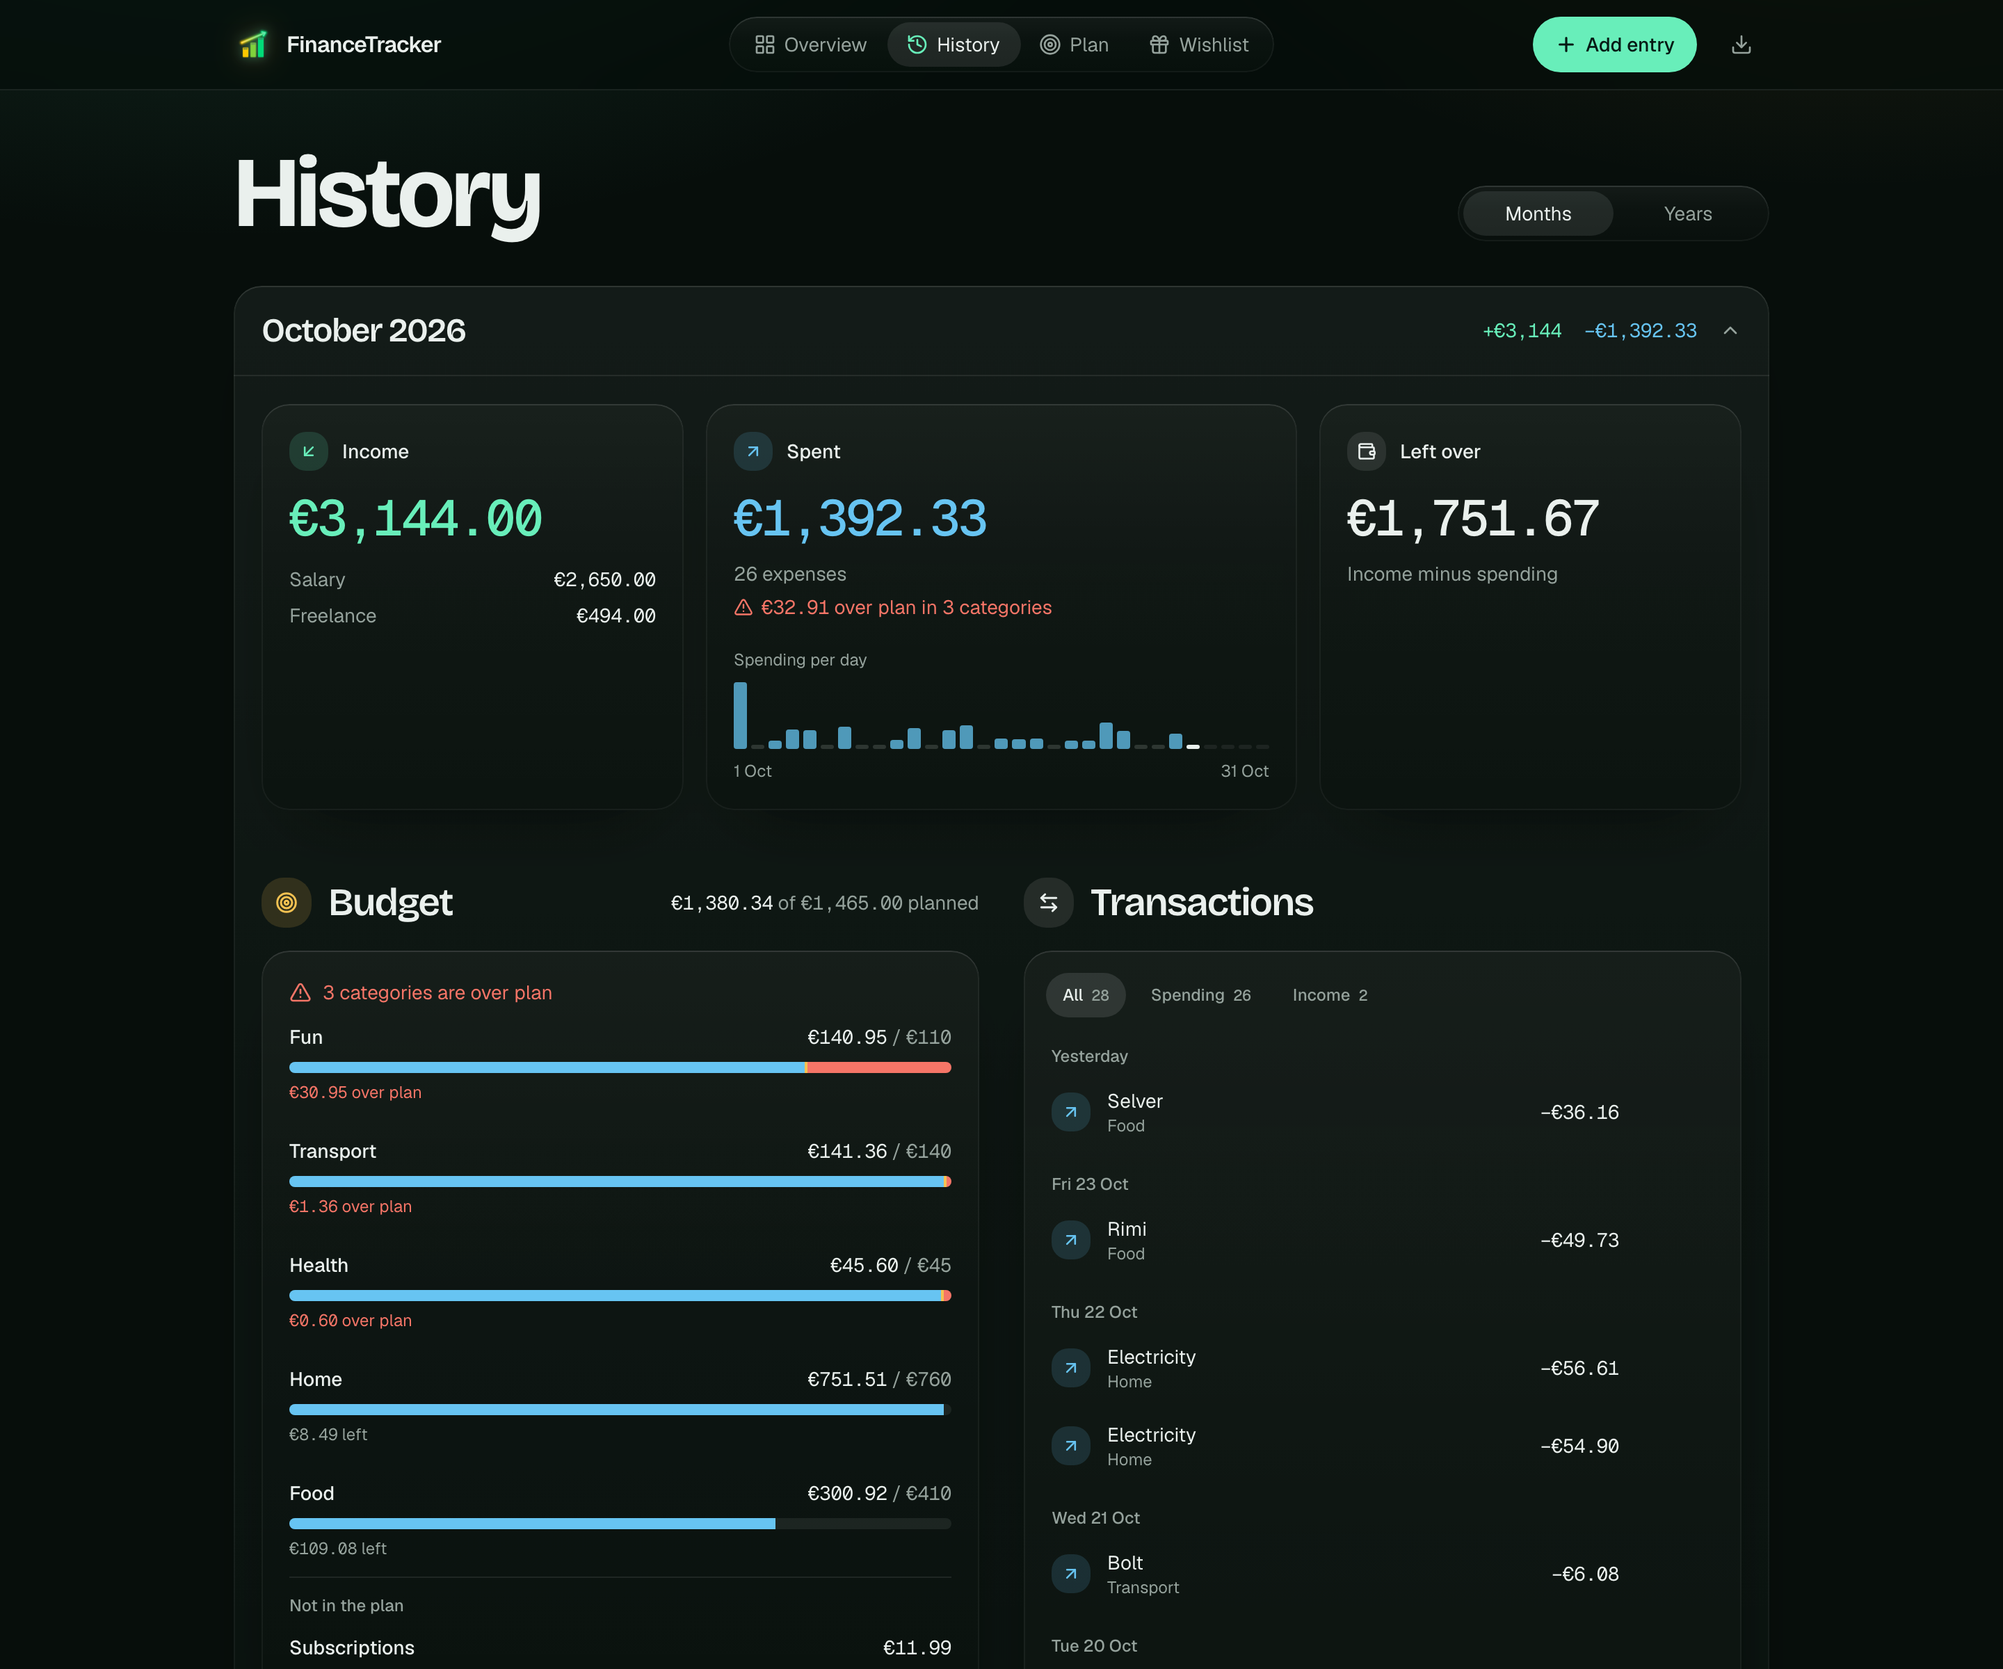
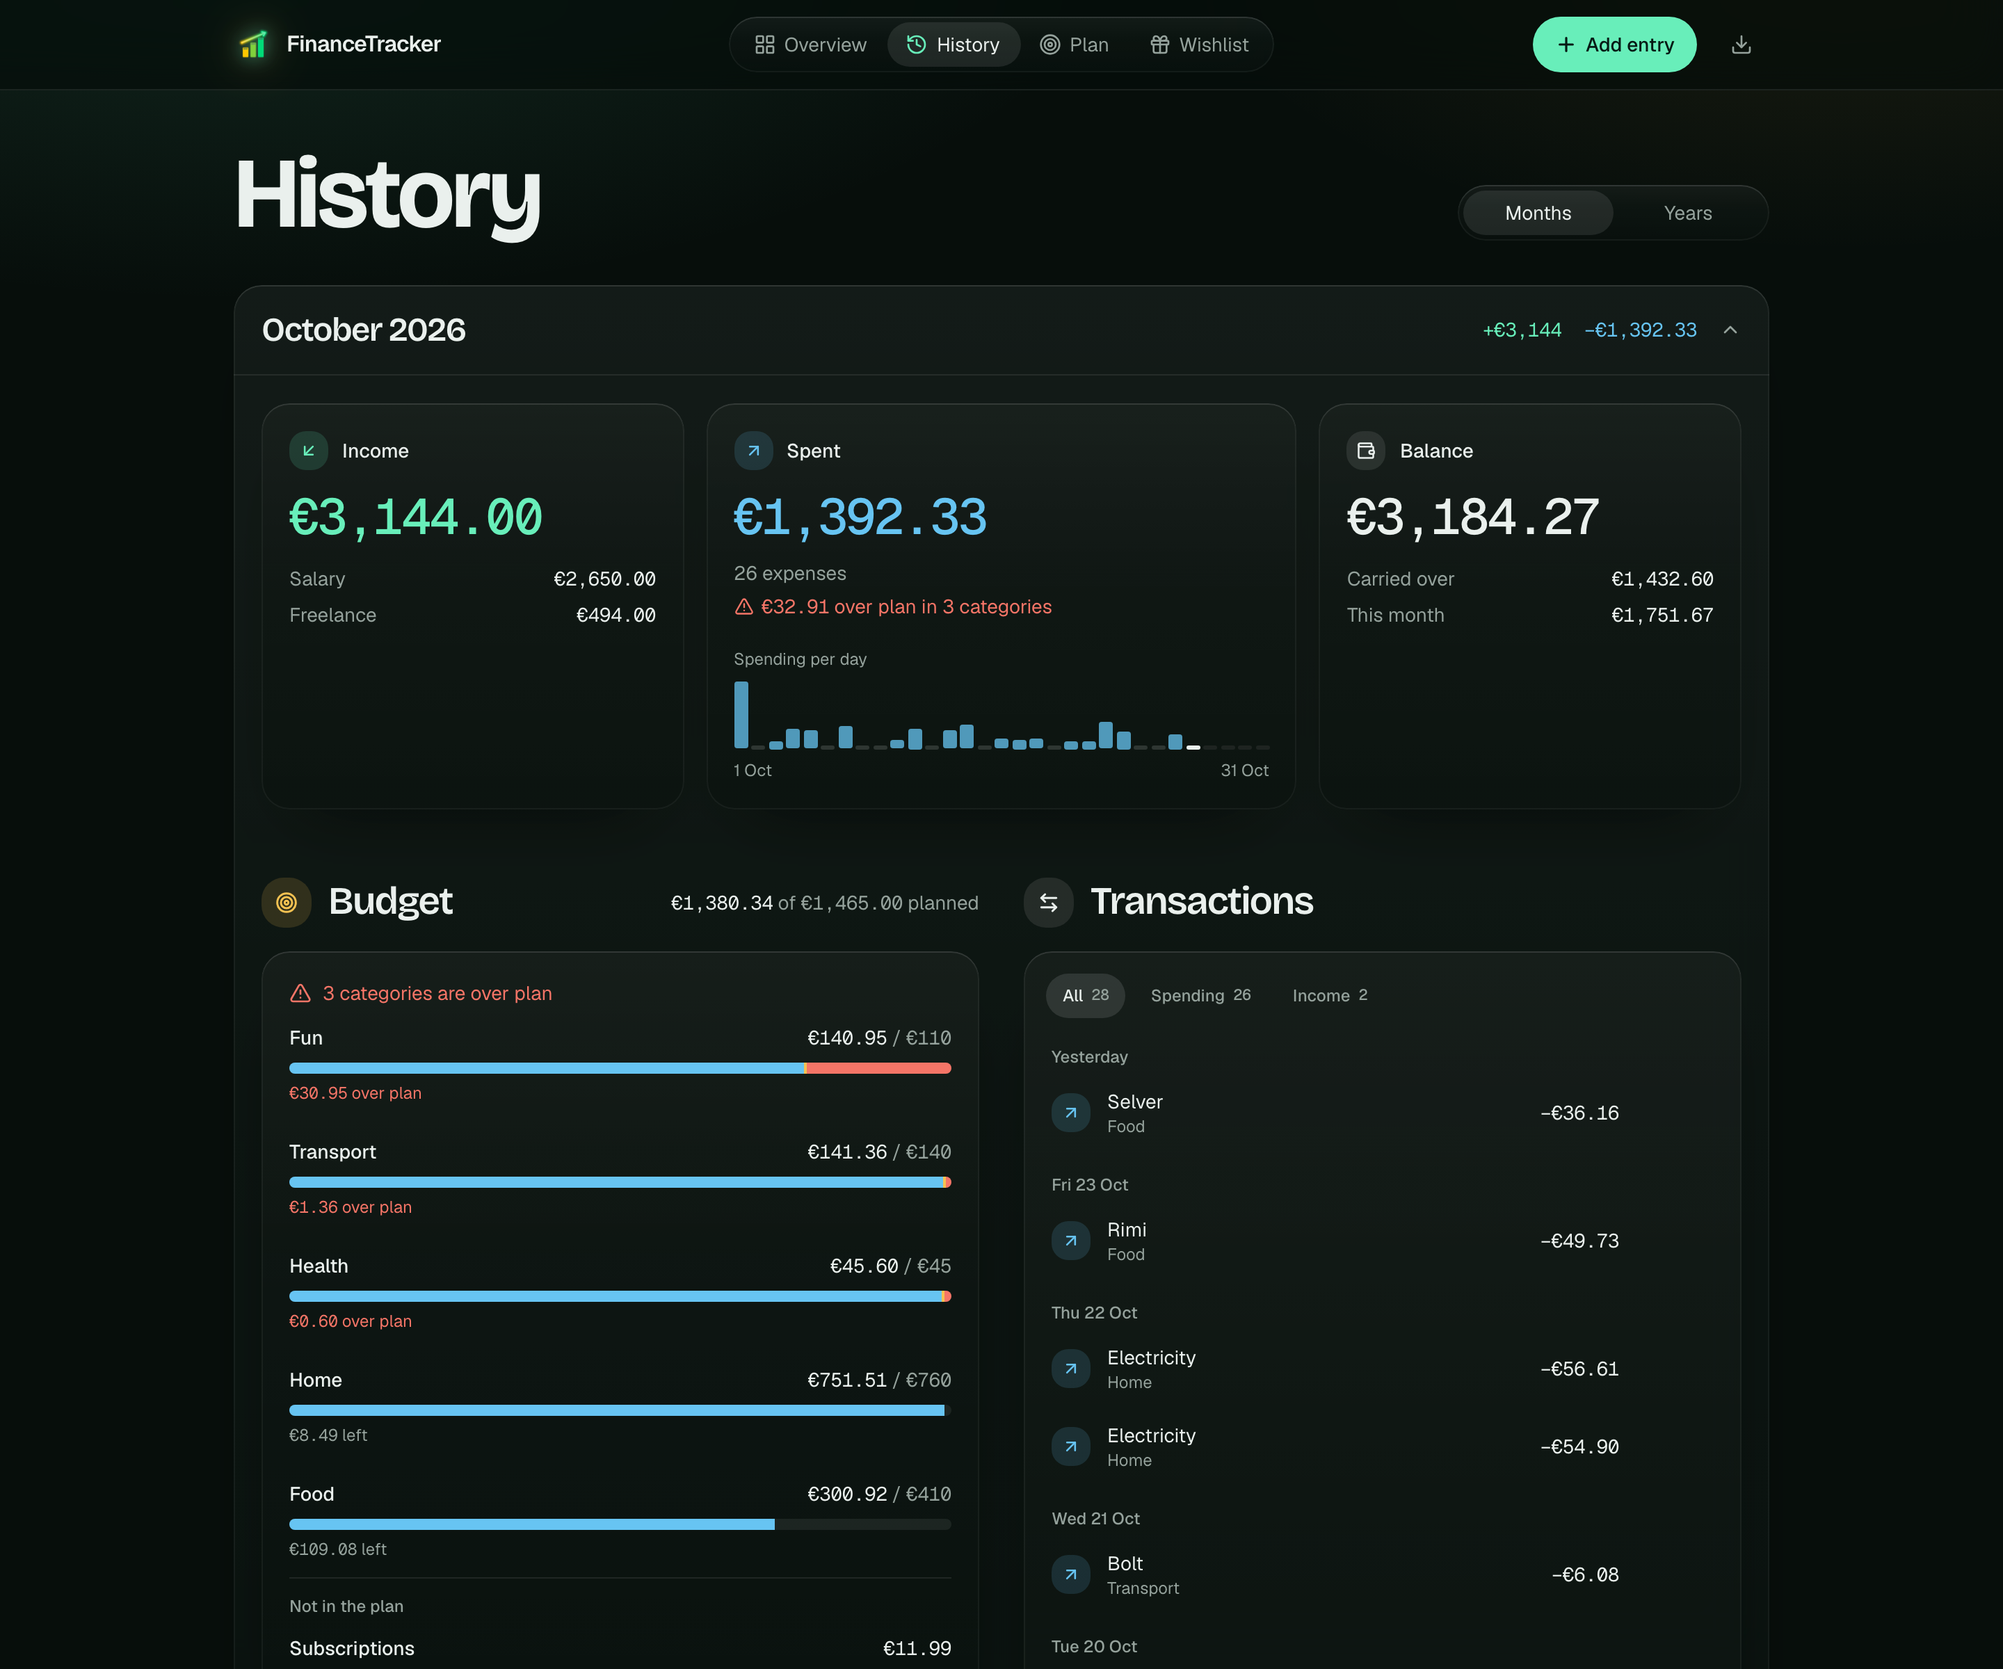
Balance card carries earlier months over
The third summary card showed only the period's income minus spending, so
every month started from zero. It now shows the balance when the period
closes: everything up to its end, split into what was carried over and the
period's own change. With a connected bank account the running total is
anchored to the real balance, which replaces the separate bank balance row.

diff --git a/src/components/SummaryCards.tsx b/src/components/SummaryCards.tsx
@@ -1,7 +1,8 @@
 // The three answers at the top of a period, each in its own colour: what came in (income, mint),
-// what went out (spent, sky, with the per-day strip), and what is left (balance, plus the real bank
-// balance when one is connected). The Spent card is wider because it carries the strip.
-import { AlertTriangle, Check, Landmark } from "lucide-react";
+// what went out (spent, sky, with the per-day strip), and the balance: money on hand when the period
+// closes, split into what earlier periods carried over and what this one added or took. The Spent
+// card is wider because it carries the strip.
+import { AlertTriangle, Check } from "lucide-react";
 import { Money, RollingMoney } from "@/components/Money";
 import { DayStrip } from "@/components/DayStrip";
 import { IconChip, KIND, type Kind } from "@/components/Zone";
@@ -24,19 +25,16 @@ const bigNumber = "mt-4 block text-[2rem] font-medium leading-none tracking-[-0.
 
 export function SummaryCards({
   scope,
-  current,
   income,
   spent,
   incomeByCategory,
   expenseCount,
   overPlan,
   plannedCategories,
-  bankBalance,
+  balance,
   strip,
 }: {
   scope: "month" | "year";
-  // The period you're living in (Overview) rather than a past one opened in History.
-  current: boolean;
   income: number;
   spent: number;
   incomeByCategory: { name: string; value: number }[];
@@ -44,10 +42,11 @@ export function SummaryCards({
   // Total overspend and how many categories caused it; null when the period has no plan.
   overPlan: { amount: number; categories: number } | null;
   plannedCategories: number;
-  bankBalance: number | null;
+  // Money on hand at the end of the period, earlier periods included (see closingBalance).
+  balance: number;
   strip: Strip;
 }) {
-  const balance = income - spent;
+  const change = income - spent;
 
   return (
     <div className="grid gap-4 md:grid-cols-[minmax(0,1fr)_minmax(0,1.4fr)_minmax(0,1fr)]">
@@ -93,18 +92,18 @@ export function SummaryCards({
         </div>
       </Card>
 
-      <Card kind="neutral" label={current ? (scope === "month" ? "Left this month" : "Left this year") : "Left over"}>
+      <Card kind="neutral" label="Balance">
         <RollingMoney value={balance} className={`${bigNumber} ${balance < 0 ? "text-destructive" : ""}`} />
-        <p className="mt-3 text-sm text-muted-foreground">Income minus spending</p>
-        {bankBalance !== null && (
-          <div className="mt-auto flex items-center justify-between gap-3 border-t border-border pt-4 text-sm">
-            <span className="flex items-center gap-2 text-muted-foreground">
-              <Landmark className="size-4" />
-              Bank balance
-            </span>
-            <Money value={bankBalance} className={bankBalance < 0 ? "text-destructive" : ""} />
-          </div>
-        )}
+        <ul className="mt-4 space-y-1.5 text-sm">
+          <li className="flex items-baseline justify-between gap-3">
+            <span className="truncate text-muted-foreground">Carried over</span>
+            <Money value={balance - change} />
+          </li>
+          <li className="flex items-baseline justify-between gap-3">
+            <span className="truncate text-muted-foreground">This {scope}</span>
+            <Money value={change} />
+          </li>
+        </ul>
       </Card>
     </div>
   );

diff --git a/src/components/PeriodView.tsx b/src/components/PeriodView.tsx
@@ -1,6 +1,7 @@
-// "Overview" tab: the current month (expenses, income, this month's plan, bank balance) via PeriodPanel.
+// "Overview" tab: the current month (expenses, income, this month's plan, balance) via PeriodPanel.
 import { useMemo } from "react";
-import { useExpenses, useIncomes, useBudgets, useBankConnections } from "@/lib/finance-data";
+import { useExpenses, useIncomes, useBudgets, useBankBalance } from "@/lib/finance-data";
+import { closingBalance, type Period } from "@/lib/period";
 import { PeriodPanel } from "@/components/PeriodPanel";
 
 // Placeholder in the shape of the title and summary cards, so the page doesn't jump when data arrives.
@@ -21,7 +22,7 @@ export function PeriodView({ userId }: { userId: string }) {
   const { data: expensesAll = [], isLoading: expensesLoading } = useExpenses(userId);
   const { data: incomesAll = [], isLoading: incomesLoading } = useIncomes(userId);
   const { data: budgetsAll = [], isLoading: budgetsLoading } = useBudgets(userId);
-  const { data: bankConnections = [] } = useBankConnections(userId);
+  const bankBalance = useBankBalance(userId);
   const now = new Date();
   const year = now.getFullYear();
   const month = now.getMonth() + 1;
@@ -42,18 +43,15 @@ export function PeriodView({ userId }: { userId: string }) {
     return <PeriodSkeleton />;
   }
 
-  // Real balance straight from the bank — a "now" number, so it only belongs on the current
-  // month (Overview), not on history periods. Null when no account has reported one yet.
-  const withBalance = bankConnections.filter((c) => c.balance !== null);
-  const bankBalance = withBalance.length > 0 ? withBalance.reduce((sum, c) => sum + (c.balance ?? 0), 0) : null;
+  const period: Period = { kind: "month", year, month };
 
   return (
     <PeriodPanel
-      period={{ kind: "month", year, month }}
+      period={period}
       expenses={expenses}
       incomes={incomes}
       budgets={budgets}
-      bankBalance={bankBalance}
+      balance={closingBalance(period, expensesAll, incomesAll, bankBalance)}
       userId={userId}
     />
   );

diff --git a/src/components/PeriodPanel.tsx b/src/components/PeriodPanel.tsx
@@ -1,5 +1,5 @@
 // Everything about one period (a month, or a year / month inside History), always in the same three
-// zones and the same order: the summary cards (income, spent, left), the plan comparison (or
+// zones and the same order: the summary cards (income, spent, balance), the plan comparison (or
 // spending per category for years) and the transactions list. Used by PeriodView and HistoryView.
 import { useMemo } from "react";
 import { useCategories, type Expense, type Income, type Budget } from "@/lib/finance-data";
@@ -21,7 +21,7 @@ export function PeriodPanel({
   incomes,
   budgets,
   showTrend = false,
-  bankBalance = null,
+  balance,
   embedded = false,
   userId,
 }: {
@@ -34,9 +34,8 @@ export function PeriodPanel({
   // True for a full-year period (History "Years" groups) — shows the month-by-month trend chart,
   // which needs a full year of data to be meaningful.
   showTrend?: boolean;
-  // Real account balance from the bank (sum across connected accounts). Only passed on the
-  // current-month view — it's a "now" number, meaningless on year/history periods.
-  bankBalance?: number | null;
+  // Money on hand when the period closes, earlier periods included (closingBalance in lib/period).
+  balance: number;
   // Inside a History accordion: the group header already names the period, so no page title.
   embedded?: boolean;
   userId: string;
@@ -90,14 +89,13 @@ export function PeriodPanel({
 
       <SummaryCards
         scope={period.kind}
-        current={!embedded}
         income={income}
         spent={total}
         incomeByCategory={byIncomeCat}
         expenseCount={expenses.length}
         overPlan={overPlan}
         plannedCategories={budgetMap ? Object.keys(budgetMap).length : 0}
-        bankBalance={bankBalance}
+        balance={balance}
         strip={strip}
       />
 

diff --git a/src/lib/period.ts b/src/lib/period.ts
@@ -1,5 +1,6 @@
 // Pure date-bucketing helpers shared by the Month/Year/History views: per-day and per-month totals
-// (for the DayStrip) and day grouping for entry lists. All dates are bucketed in local time.
+// (for the DayStrip), the running balance and day grouping for entry lists. All dates are bucketed in
+// local time.
 
 type Dated = { date: string; amount: number };
 
@@ -32,6 +33,32 @@ export function stripFor(period: Period, expenses: Dated[]) {
     startLabel: `1 ${monthName}`,
     endLabel: `${daysInMonth(period.year, period.month)} ${monthName}`,
   };
+}
+
+/**
+ * Money on hand when `period` closes: everything earned minus everything spent up to its end, so a
+ * period starts from what the previous one left instead of from zero. The tracker's own sum starts
+ * at zero on the first entry while the account did not, so with a bank balance the running total is
+ * shifted to equal it today; earlier periods are then that balance counted backwards.
+ */
+export function closingBalance(period: Period, expenses: Dated[], incomes: Dated[], bankBalance: number | null) {
+  const end = (
+    period.kind === "year" ? new Date(period.year + 1, 0, 1) : new Date(period.year, period.month, 1)
+  ).getTime();
+  const now = Date.now();
+  let untilEnd = 0;
+  let untilNow = 0;
+  const add = (items: Dated[], sign: 1 | -1) => {
+    for (const item of items) {
+      const t = new Date(item.date).getTime();
+      if (t < end) untilEnd += sign * item.amount;
+      // The bank knows nothing about entries dated ahead, so they stay out of the anchor.
+      if (t <= now) untilNow += sign * item.amount;
+    }
+  };
+  add(incomes, 1);
+  add(expenses, -1);
+  return bankBalance === null ? untilEnd : untilEnd + bankBalance - untilNow;
 }
 
 export function daysInMonth(year: number, month: number) {

diff --git a/src/components/HistoryView.tsx b/src/components/HistoryView.tsx
@@ -2,8 +2,16 @@
 // Every group header carries its own small DayStrip, so the shape of each month is visible before opening it.
 import { useMemo, useState } from "react";
 import { ChevronDown } from "lucide-react";
-import { useExpenses, useIncomes, useBudgets, type Expense, type Income, type Budget } from "@/lib/finance-data";
-import { periodLabel, stripFor, type Period } from "@/lib/period";
+import {
+  useExpenses,
+  useIncomes,
+  useBudgets,
+  useBankBalance,
+  type Expense,
+  type Income,
+  type Budget,
+} from "@/lib/finance-data";
+import { closingBalance, periodLabel, stripFor, type Period } from "@/lib/period";
 import { PeriodPanel } from "@/components/PeriodPanel";
 import { PeriodSkeleton } from "@/components/PeriodView";
 import { DayStrip } from "@/components/DayStrip";
@@ -43,6 +51,7 @@ export function HistoryView({ userId }: { userId: string }) {
   const { data: expensesAll = [], isLoading: expensesLoading } = useExpenses(userId);
   const { data: incomesAll = [], isLoading: incomesLoading } = useIncomes(userId);
   const { data: budgetsAll = [], isLoading: budgetsLoading } = useBudgets(userId);
+  const bankBalance = useBankBalance(userId);
   const [granularity, setGranularity] = useState<"month" | "year">("month");
   const [open, setOpen] = useState<string | null | undefined>(undefined);
 
@@ -149,6 +158,7 @@ export function HistoryView({ userId }: { userId: string }) {
                     incomes={incomeItems}
                     budgets={budgetItems}
                     showTrend={granularity === "year"}
+                    balance={closingBalance(period, expensesAll, incomesAll, bankBalance)}
                     embedded
                     userId={userId}
                   />

diff --git a/src/lib/finance-data.ts b/src/lib/finance-data.ts
@@ -526,6 +526,13 @@ export function useBankConnections(userId: string | undefined) {
   });
 }
 
+/** Real balance summed across connected accounts; null when no account has reported one yet. */
+export function useBankBalance(userId: string | undefined) {
+  const { data: connections = [] } = useBankConnections(userId);
+  const withBalance = connections.filter((c) => c.balance !== null);
+  return withBalance.length > 0 ? withBalance.reduce((sum, c) => sum + (c.balance ?? 0), 0) : null;
+}
+
 export function useDisconnectBank(userId: string | undefined) {
   const queryClient = useQueryClient();
   return useMutation({

diff --git a/README.md b/README.md
@@ -36,9 +36,9 @@ Every kind of information has one home, one colour and one icon, so you always k
 
 ### Overview: this month in three answers
 
-<img src="docs/screenshots/overview.png" alt="Overview: income, spent and left cards, budget and transactions" width="100%" />
+<img src="docs/screenshots/overview.png" alt="Overview: income, spent and balance cards, budget and transactions" width="100%" />
 
-- **Income, Spent, Left this month** as three cards, with where the income came from, a bar per day showing where the money went, and your real bank balance next to what's left.
+- **Income, Spent, Balance** as three cards, with where the income came from and a bar per day showing where the money went. Balance carries over what earlier months left, and equals your real bank balance when an account is connected.
 - **Budget** puts the categories that went over plan first, and says in words how much is over or left ("€30.95 over plan", "€109 left").
 - **Transactions** is one list for both directions, grouped by day, with a filter for spending or income. Every row can be edited or deleted in place.
 
@@ -88,7 +88,7 @@ Every kind of information has one home, one colour and one icon, so you always k
 
 | | |
 |---|---|
-| **Bank import** | Connect a bank account through [Enable Banking](https://enablebanking.com) (PSD2). Booked transactions are imported daily, categories are learned from how you sorted earlier ones, and the real balance shows on Overview. |
+| **Bank import** | Connect a bank account through [Enable Banking](https://enablebanking.com) (PSD2). Booked transactions are imported daily, categories are learned from how you sorted earlier ones, and the real balance anchors the Balance card. |
 | **Reminders** | Web Push nudges on Sundays and at month-end to log anything you missed, even when the app is closed. |
 | **Private by design** | Email and password sign-in with sign-ups closed, and every row in the database is locked to its owner with Postgres Row Level Security. |
 | **Your data, exportable** | One click downloads a JSON backup of everything you own. |
